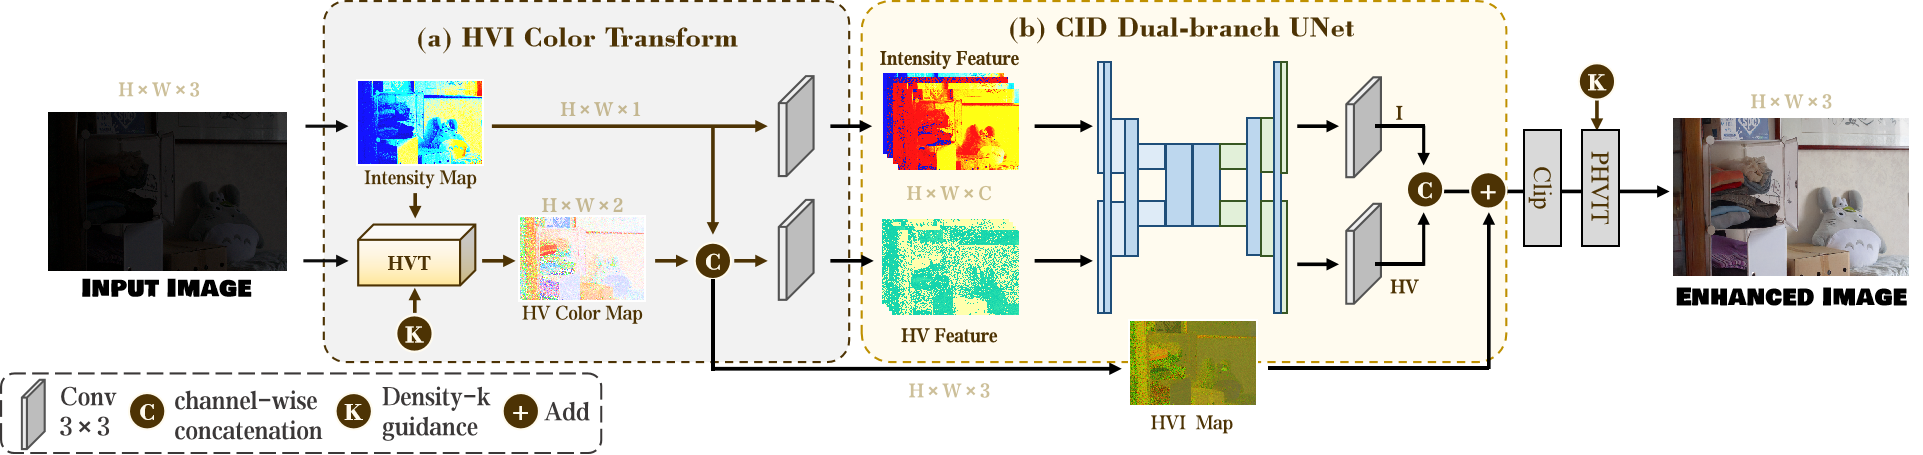
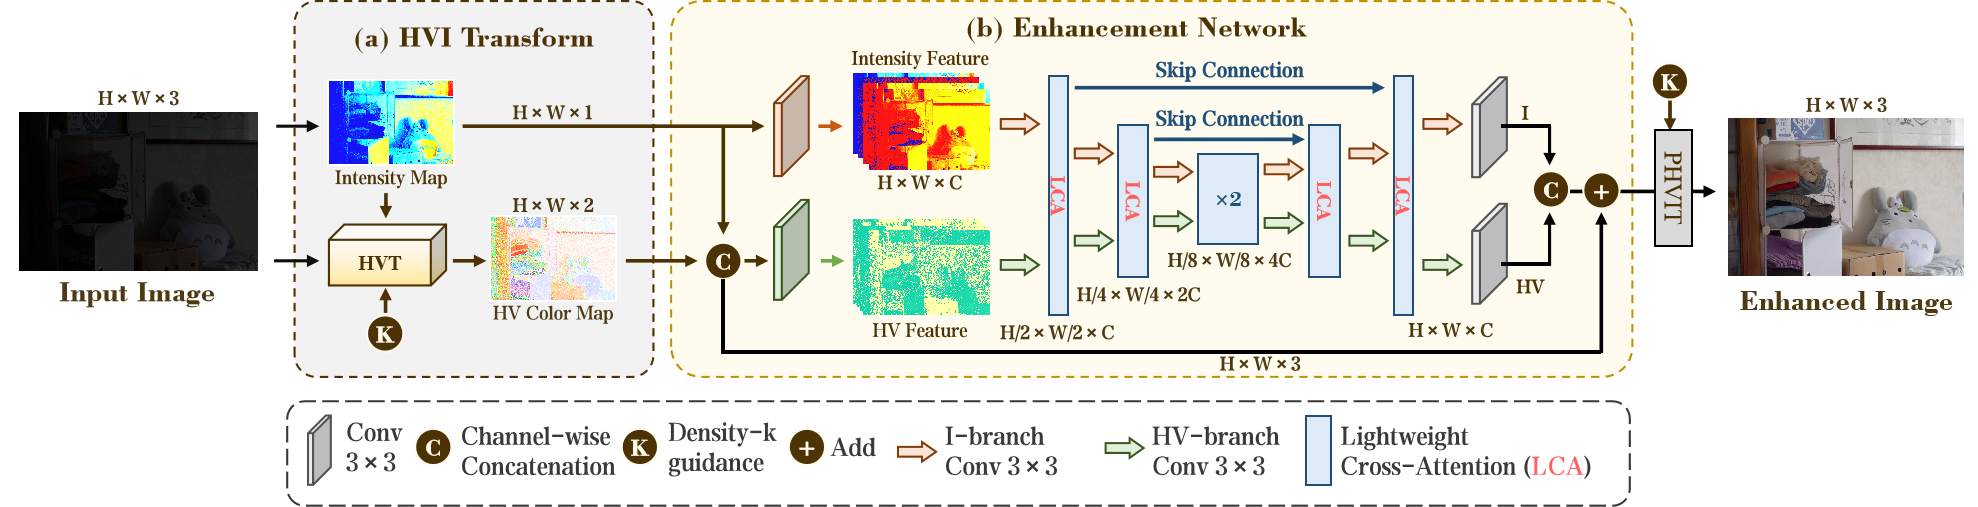
feat: new version paper

diff --git a/Readme.md b/Readme.md
@@ -1,11 +1,11 @@
 &nbsp;
 # You Only Need One Color Space: An Efficient Network for Low-light Image Enhancement
 
-**Yixu Feng<sup>∗ </sup>, Cheng Zhang<sup>∗ </sup>**, Pei Wang , Peng Wu , Qingsen Yan , Yanning Zhang
+**Qingsen Yan<sup>∗ </sup>, Yixu Feng<sup>∗ </sup>, Cheng Zhang<sup>∗ </sup>**, Pei Wang, Peng Wu, Wei Dong, Jinqiu Sun,  Yanning Zhang
 
 <div align="center">
 
-[![arXiv](https://img.shields.io/badge/arxiv-paper-179bd3)](https://arxiv.org/abs/2402.05809v1)
+[![arXiv](https://img.shields.io/badge/arxiv-paper-179bd3)](https://arxiv.org/abs/2402.05809)
 
 [![PWC](https://img.shields.io/endpoint.svg?url=https://paperswithcode.com/badge/you-only-need-one-color-space-an-efficient/low-light-image-enhancement-on-lime)](https://paperswithcode.com/sota/low-light-image-enhancement-on-lime?p=you-only-need-one-color-space-an-efficient)
 [![PWC](https://img.shields.io/endpoint.svg?url=https://paperswithcode.com/badge/you-only-need-one-color-space-an-efficient/low-light-image-enhancement-on-lol)](https://paperswithcode.com/sota/low-light-image-enhancement-on-lol?p=you-only-need-one-color-space-an-efficient)
@@ -36,6 +36,7 @@
 &nbsp;
 
 ## News 💡
+- **2024.06.19** Update newest version of paper in [Arxiv](https://arxiv.org/abs/2402.05809).
 - **2024.05.12** Update peer results on LOLv1. 🤝
 - **2024.04.28** Synchronize all Baidu Pan datasets, outputs, and weights to One Drive. 🌎
 - **2024.04.18** Full version Code, models, visual comparison have been released. We promise that all the weights only trained on train sets, and each weights is reproducible. Hope it will help your future work. If you have trained a better result, please contact us. We look forward to subsequent work based on the HVI color "space"! 💎
@@ -59,7 +60,7 @@
 </details>
 
 <details close>
-<summary><b>CID dual-branch UNet structure:</b></summary>
+<summary><b>Lighten Cross-Attention (LCA) Block structure:</b></summary>
 
 ![results4](./pic/structure.png)
 
